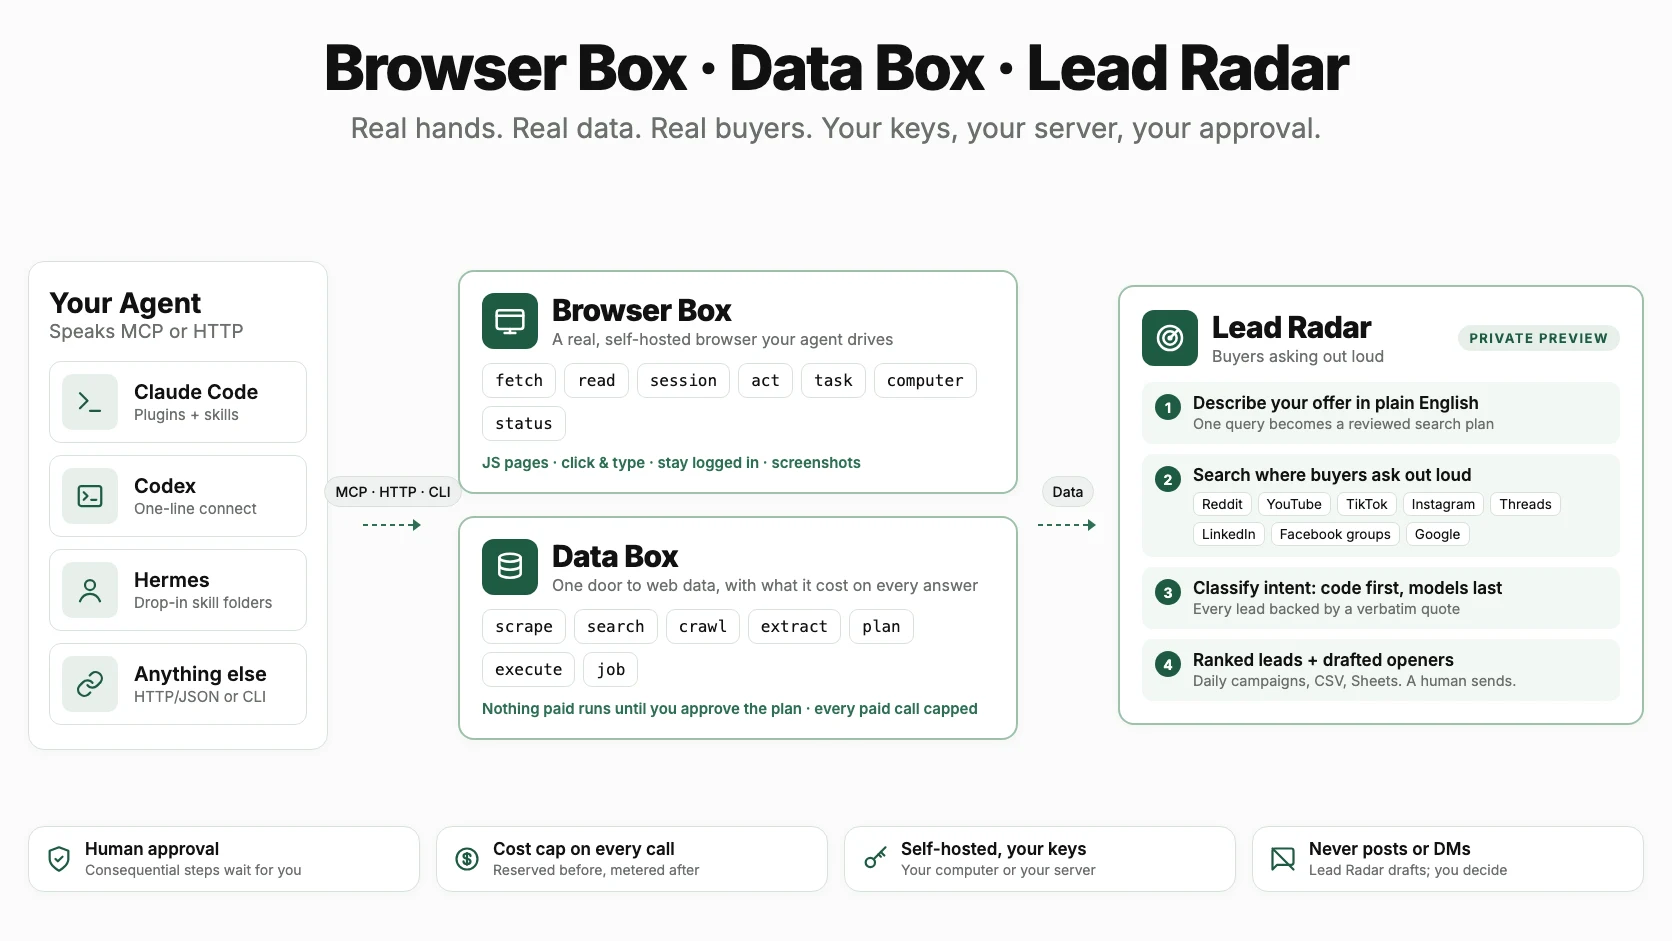
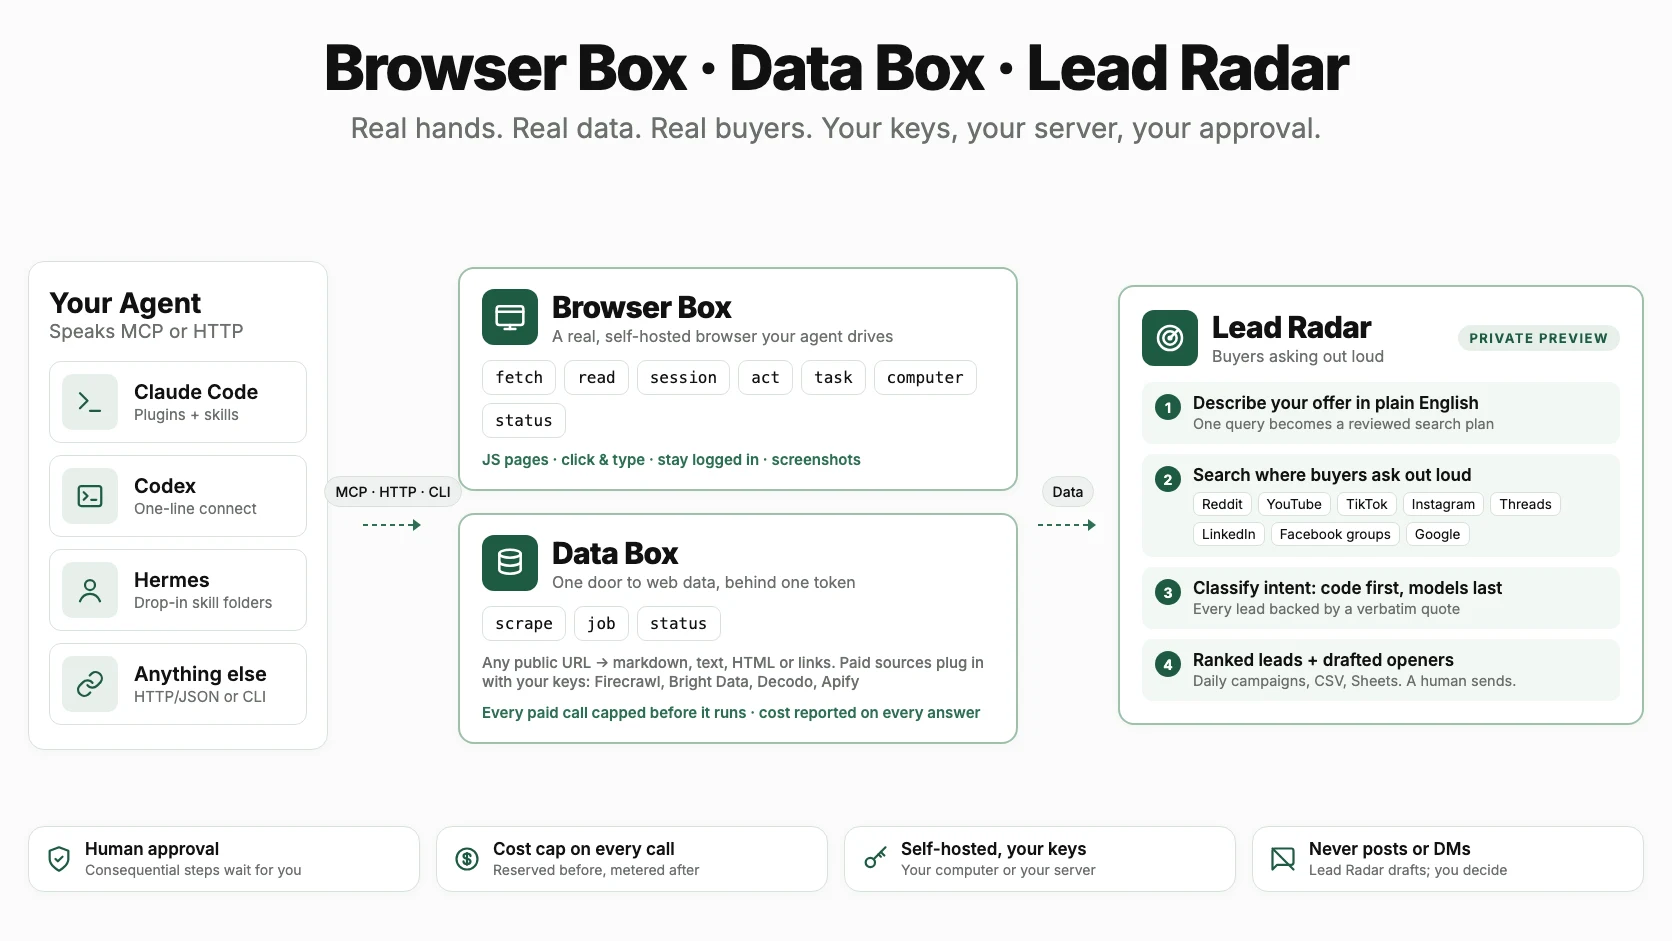
Match Data Box copy and diagram to the tools box-kit actually ships

Changed region(s): [[0.2799, 0.2774, 0.5909, 0.8013]]

diff --git a/README.md b/README.md
@@ -128,7 +128,7 @@ One idea keeps getting sharper: give the agent the right tool for the job, keep 
 [![Browser Box and Data Box connect Claude Code, Codex, Hermes, or any MCP or HTTP agent to a self-hosted browser and a cost-capped data door, feeding Lead Radar, which turns one offer into ranked leads and drafted openers with human approval](docs/assets/box-kit-lead-radar-architecture.webp)](https://github.com/jbellsolutions/box-kit)
 
 1. **[Browser Box](https://github.com/jbellsolutions/box-kit)** · Public in Box Kit. One self-hosted browser behind one door. Read JavaScript pages, click, type, log in and stay logged in, take screenshots, or hand over a whole goal. If a tool is listed, it works. If it can't work right now, `status` says why.
-2. **[Data Box](https://github.com/jbellsolutions/box-kit)** · Public in Box Kit. One door to web data over MCP, HTTP, or the command line. Scrape, search, crawl, and extract. Nothing paid runs until you approve the plan, and every paid call is capped before it runs.
+2. **[Data Box](https://github.com/jbellsolutions/box-kit)** · Public in Box Kit. One door to web data over MCP, HTTP, or the command line. Turn any public URL into markdown, text, HTML, or links for free, and plug in paid sources like Firecrawl, Bright Data, Decodo, and Apify with your own keys. Every paid call is capped before it runs and reports what it actually cost.
 3. **Lead Radar** · Private preview. Describe your offer in plain English and get ranked lists of people publicly asking for it across Reddit, YouTube, TikTok, Instagram, Threads, LinkedIn, Facebook groups, and Google. It never posts, comments, likes, or DMs. It drafts the opener, and a human sends it.
 
 Box Kit is free and open source (MIT). Run it on your own computer or server with your own keys.
